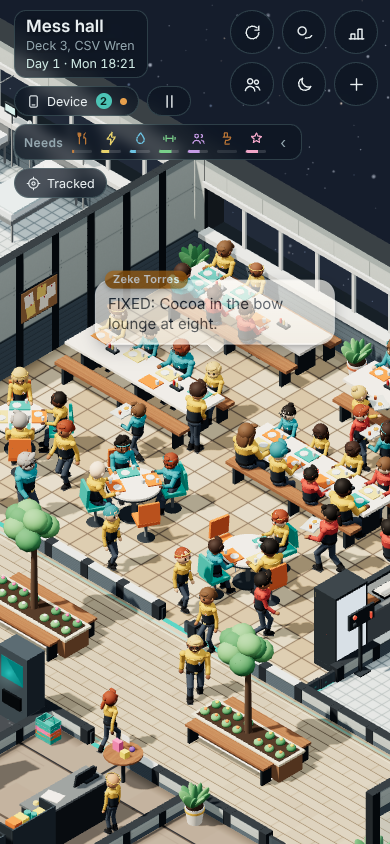
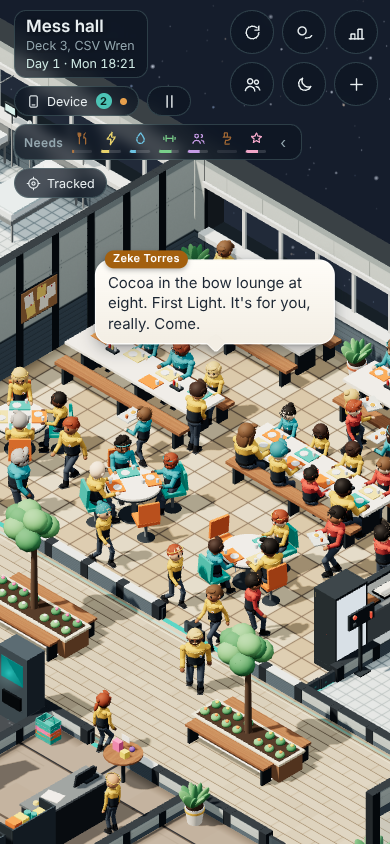
PR2 notes: PA batch C FAIL (intro_check part 8), PE #26 fixes PASS, PB batch D PASS
Claude-Session: https://claude.ai/code/session_013ttt3gV3DaF9y4caBtFnh9

diff --git a/plans/patch-review-2/c8r.py b/plans/patch-review-2/c8r.py
@@ -1,0 +1,15 @@
+import pp
+from pp import *
+g = start('?nosave&debug'); g.step(5)
+g.ev("(() => { skipTo(450); goToDeck(4); const sp = placeSpot('4-toilet-p1'); player.obj.position.copy(cellPos(...sp.walk)); player.obj.position.x += 1.5; target.copy(player.obj.position).setY(.7); return 1; })()")
+g.secs(1)
+for i in range(40):
+    g.secs(1)
+    r = g.ev(r"""(() => { const v = new THREE.Vector3(); return STALL_CAP.list.filter(c => c.m.visible).map(c => { c.m.getWorldPosition(v); v.project(camera); return [c.id, Math.round((v.x + 1) * innerWidth / 2), Math.round((1 - v.y) * innerHeight / 2), clockText()]; }); })()""")
+    if r and 0 < r[0][1] < 390 and 0 < r[0][2] < 844:
+        print(r); g.page.screenshot(path='/tmp/rv/shots/08-red.png')
+        from PIL import Image
+        x, y = r[0][1], r[0][2]
+        Image.open('/tmp/rv/shots/08-red.png').crop((max(0, x-80), max(0, y-60), x+80, y+60)).resize((640, 480), Image.NEAREST).save('/tmp/rv/shots/08-red-crop.png'); break
+    elif r: print('offscreen', r)
+g.close()

diff --git a/plans/patch-review-2.md b/plans/patch-review-2.md
@@ -40,4 +40,24 @@ Harness gotcha (new): speech bubbles pop in with a real-time CSS animation (`.bu
 ## PA batch C: claude/patch-a eb638e7 (#11, #12, #13, #17, #18, #19)
 
 - **Checks:** check_fast OK (297 s). cadet_test 8ee5d6b→eb638e7 ALL IDENTICAL.
-- intro_check and the probe: see below once run.
+- **FAIL: intro_check part 8.** The follower and Torres both sit at Deck 5 [6,11] from 17:40 ('haulway') to 19:20, so the table comes at 20:11. After that, no introChief, no goodnight, no bed arrow, and core tour lines 6/18. Batch B's run of the same part was clean.
+- Almost surely #17: escortStep's ESC_GAP stand and/or escBeside keep him off his spot, so the step never advances. Sent to PA with fix options.
+- OR1's scope note was passed on: #11, #12, #13 and the floor tap act in normal play.
+- To do on the fix: intro_check part 8, then `rvC.py` (the end of training day: #18/#19 arrows, Zeke's gap).
+
+## PE #26 fixes: claude/patch-e b3fed46. PASS
+
+- The invite bubble is on `z.h`; my shot `e26_invite.png` shows it by Zeke at 18:21.
+- "Shown" is kept in the save as the flag `firstlight.shown`.
+- flcBusy runs from the invite until the tradition ends, unless declined (`e.to` is minute of day, correct).
+- cadet_test cf45e2a→b3fed46 ALL IDENTICAL.
+
+## PB batch D: claude/patch-b 2e517ff (#7, #9, #10, #8). PASS
+
+- **Checks:** check_fast OK (307 s). day_check OK. events_check OK. food_check OK.
+- cadet_test 5d6ee1c→2e517ff shows differences, as expected: the crew's lanes and plans move the shots and taps. OR1 traced them with switch-off copies.
+- **#10:** c10c's longest pair run is 2.5 s (mark: 3 s).
+- **#8:** the red cap shows only on the taken stall (30/30 samples). My projected crop `08-red-crop.png`: about 4×2 px at phone zoom.
+- **Notes:**
+  - The Captain is 4.5 h a week on Deck 4 (the plan said about 3-4).
+  - 9 of 35 visits still miss the stall.
